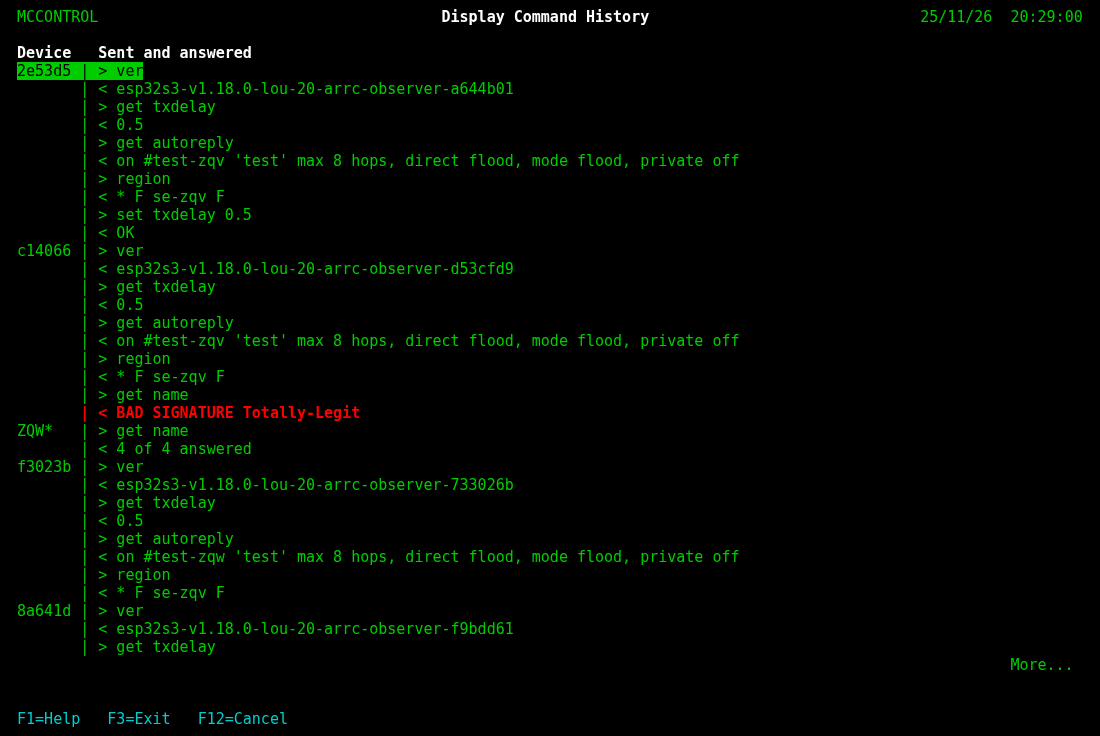
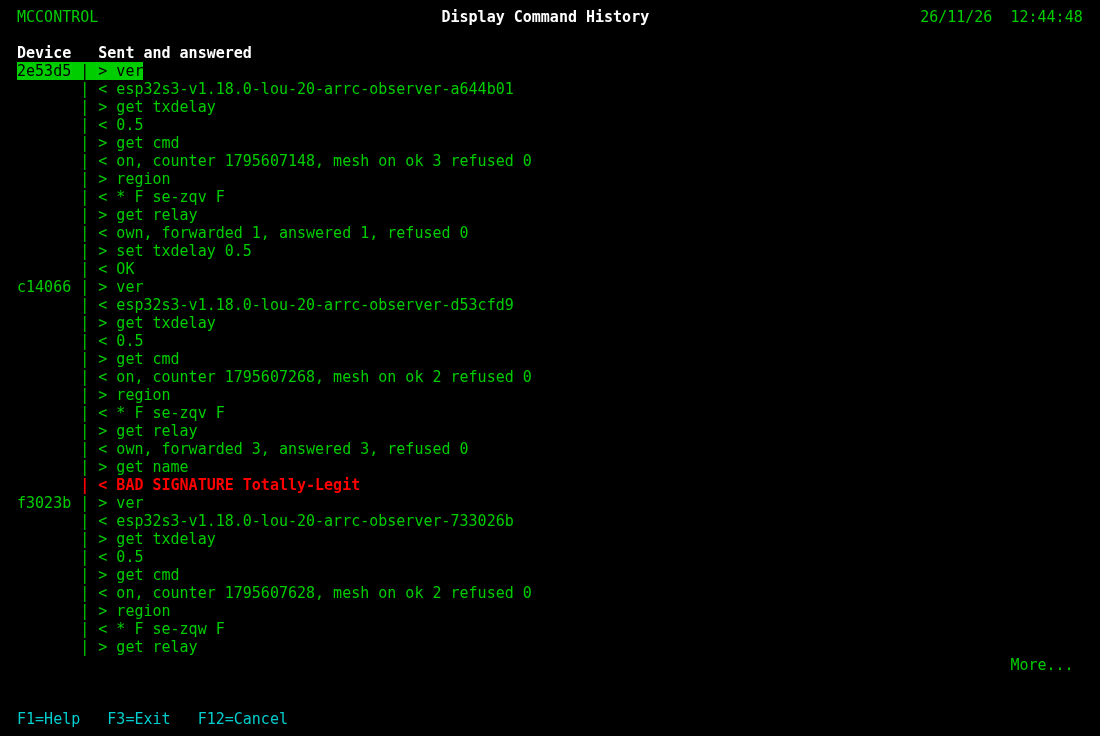
The pictures show a lou-20 fleet: nodes found by their alive message, one without Wi-Fi behind a relay, one on lou-18; a key rotation and a send through a relay

diff --git a/scripts/screenshots.py b/scripts/screenshots.py
@@ -4,10 +4,12 @@
 Builds a scratch home (never ~/.config/mccontrol) with ten invented repeaters -- names, keys,
 regions and firmware made up here, checked against the real fleet's keys in the test data --
 with a history, reads, command sets and a Beacon statistics series, all served through the fake
-transport and the fake Beacon the tests use. Each interface runs in a pseudo-terminal and is
+transport and the fake Beacon the tests use. It is a lou-20 fleet: most nodes found by their alive
+message and kept without a region, one without Wi-Fi reached through a relay, one on lou-18. Each interface runs in a pseudo-terminal and is
 driven through a few states; the screen is kept by a small colour terminal emulator, written
 out as HTML in the interface's own colours, and headless Chromium turns that into
-`docs/screenshots/<interface>-<state>.png`. Rerun it when the screens change.
+`docs/screenshots/<interface>-<state>.png`. Two command lines are run over the same home and
+drawn the same way (`cli-<what>.png`). Rerun it when the screens change.
 
     python scripts/screenshots.py [--only monolith-board] [--out docs/screenshots] [--keep-html]
 """
@@ -40,13 +42,18 @@ from mccontrol import store as _store           # noqa: E402
 
 # -- the invented fleet -----------------------------------------------------------------
 
-REGIONS = ("ZQV", "ZQW")                                     # not codes the real fleet uses
-FLEET = [  # name, region, firmware revision, battery mV, tx delay, autoreply on
-    ("Lighthouse-North", "ZQV", 11, 4180, "0.7", "on"), ("Old-Mill", "ZQV", 11, 3920, "0.5", "on"),
-    ("Water-Tower", "ZQV", 10, 4105, "1.0", "off"), ("Church-Spire", "ZQV", 11, 3870, "0.5", "on"),
-    ("Ridge-East", "ZQV", 10, 4240, "0.8", "on"), ("Harbour", "ZQV", 11, 3995, "0.5", "on"),
-    ("Quarry-Hill", "ZQW", 11, 4060, "0.6", "on"), ("Allotments", "ZQW", 10, 3760, "0.5", "off"),
-    ("Fire-Station", "ZQW", 11, 4150, "0.9", "on"), ("School-Roof", "ZQW", 11, 4010, "0.5", "on"),
+HOMES = ("se-zqv", "se-zqw")                                 # invented region homes, as the nodes' alive names them
+OLD_REGION = "ZQV"                                           # the one IATA left: not a code the real fleet uses
+RELAY, NO_WIFI = "Quarry-Hill", "Allotments"                 # the node without Wi-Fi is reached through the relay
+# A lou-20 fleet: most nodes found by their alive message, with no region (`alive`); one on a
+# board without Wi-Fi, added by its key and reached over the mesh (`mesh`); one still on lou-18
+# and the old per-region scheme (`old`).
+FLEET = [  # name, region home, kind, battery mV, tx delay
+    ("Lighthouse-North", "se-zqv", "alive", 4180, "0.7"), ("Old-Mill", "se-zqv", "alive", 3920, "0.5"),
+    ("Water-Tower", "se-zqv", "old", 4105, "1.0"), ("Church-Spire", "se-zqv", "alive", 3870, "0.5"),
+    ("Ridge-East", "se-zqv", "alive", 4240, "0.8"), ("Harbour", "se-zqv", "alive", 3995, "0.5"),
+    ("Quarry-Hill", "se-zqw", "alive", 4060, "0.6"), ("Allotments", "se-zqw", "mesh", 3760, "0.5"),
+    ("Fire-Station", "se-zqw", "alive", 4150, "0.9"), ("School-Roof", "se-zqw", "alive", 4010, "0.5"),
 ]
 
 
@@ -54,10 +61,12 @@ def key_of(name):
     return hashlib.sha256(f"mccontrol-screenshot {name}".encode()).hexdigest().upper()
 
 
-def firmware(name, rev):
-    # The invented fleet runs the released images: lou-20 on most, lou-18 on the two that lag.
-    lou = 20 if rev >= 11 else 18
-    return f"esp32s3-v1.18.0-lou-{lou}-arrc-observer-{hashlib.sha256(name.encode()).hexdigest()[:7]}"
+def firmware(name, kind):
+    # The released images: the Observer one with auto-reply and the plane, the one for a board
+    # without Wi-Fi (the plane, no Observer bridge), and lou-18 on the node that lags.
+    lou, flavour = {"alive": (20, "arrc-observer"), "mesh": (20, "rc"), "old": (18, "arrc-observer")}[kind]
+    board = "rak4631" if kind == "mesh" else "esp32s3"
+    return f"{board}-v1.18.0-lou-{lou}-{flavour}-{hashlib.sha256(name.encode()).hexdigest()[:7]}"
 
 
 def check_invented():
@@ -75,6 +84,7 @@ def at(days, hour=9, minute=0):
 
 def build_home(where):
     """The scratch home, the fake broker's script and the fake Beacon's table."""
+    from mccontrol import actions
     home = where / "home"
     st = _store.Store(home)
     st.create_key()
@@ -82,49 +92,72 @@ def build_home(where):
     # test, kept as `register` and `test` keep them; nothing reaches it (the fake broker answers)
     st.save_config(broker="mqtt.example.org", port=8883, tls=True, beacon_url="http://beacon.example.org", wait_secs=4,
                    sets={"add-scope": ["region put {arg} *", "region allowf {arg}", "region save", "region"],
-                         "audit": ["ver", "get txdelay", "get autoreply"]})
+                         "audit": ["ver", "get txdelay", "get cmd"]})
     st.remember_registration("mqtt.example.org")
     st.remember_test("mqtt.example.org", 8883, True)
     (home / "history").mkdir(exist_ok=True)
     script, nodes, table = {}, [], {}
-    for i, (name, region, rev, mv, txdelay, ar) in enumerate(FLEET):
+    relay = {"node": key_of(RELAY)[:8], "name": RELAY, "route": "direct", "status": "answered", "sent": "direct", "snr": 5.5}
+    for i, (name, region_home, kind, mv, txdelay) in enumerate(FLEET):
         key = key_of(name)
         node = key[:8]
-        st.add_device(name, key, region)
-        observer = f"00000000-0000-4000-8000-{i:012d}"
-        ver = firmware(name, rev)
+        ver = firmware(name, kind)
+        observer = None if kind == "mesh" else f"00000000-0000-4000-8000-{i:012d}"
+        counter = int(time.time()) - 86400 + 60 * i
+        if kind == "alive":         # as discovery keeps a node whose alive message opened: its key, no region
+            fields = {"boot": 3 + i, "sequence": 40 + i, "uptime": 1209600 + i * 3600, "clock": int(time.time()) - 600,
+                      "last_counter": counter, "interval": 900, "flags": 0x01 | 0x10, "mesh": 2,
+                      "fingerprint": st.public_key()[:8], "version": ver, "region": region_home, "name": name}
+            actions.adopt(st, {"node": key, "key": key, "region": "",
+                               "alive": actions._alive_record(fields, "online", time.time() - 600)}, name)
+        else:                       # added by hand: by its key alone, or with the IATA the old scheme needs
+            st.add_device(name, key, OLD_REGION if kind == "old" else "", key=key)
+        heard = {"mesh": "last_heard_relay"}.get(kind, "last_heard_mqtt")
         st.update_device(node, ver=ver, observer_id=observer, last_sent=at(i % 4, 10 + i), last_result="ok",
-                         last_heard=at(i % 4, 10 + i), fleet={"battery_mv": mv, "seen": at(0, 11), "at": at(0, 11)})
-        verified = True if rev >= 11 else None
-        lines = [(at(5 + i % 3, 9), "ver", f"> {ver}", verified),
-                 (at(3, 10, i), "get txdelay", f"> {txdelay}", verified),
-                 (at(2, 14, i), "get autoreply", f"> {ar} #test-{region.lower()} 'test' max 8 hops, direct flood, mode flood, "
-                                                  f"private off", verified),
-                 (at(1, 16, i), "region", "> * F\n se-zqv F", verified)]
+                         last_heard=at(i % 4, 10 + i), **{heard: at(i % 4, 10 + i)},
+                         **({} if kind == "mesh" else {"fleet": {"battery_mv": mv, "seen": at(0, 11), "at": at(0, 11)}}))
+        topic = f"meshcore/{OLD_REGION}/{key}/cmd" if kind == "old" else f"mcc/cmd/{key}"
+        road = {"road": "relay", "relay": relay, "note": ""} if kind == "mesh" else \
+               {"road": "mqtt", "note": "" if kind == "old" else "mcc3"}
+        lines = [(at(5 + i % 3, 9), "ver", f"> {ver}", True),
+                 (at(3, 10, i), "get txdelay", f"> {txdelay}", True),
+                 (at(1, 16, i), "region", f"> * F\n {region_home} F", True)]
+        if kind == "old":           # the old scheme: auto-reply on the region's own test channel
+            lines.insert(2, (at(2, 14, i), "get autoreply", f"> on #test-{OLD_REGION.lower()} 'test' max 8 hops, direct flood, "
+                                                           f"mode flood, private off", True))
+        else:                       # what lou-20 brought: the plane's own line, and relaying
+            mesh = "mesh only, mesh on" if kind == "mesh" else "mesh on"
+            lines.insert(2, (at(2, 14, i), "get cmd", f"> on, counter {counter}, {mesh} ok {2 + i % 3} refused 0", True))
+        if kind == "alive":
+            lines.append((at(1, 16, 30 + i), "get relay", f"> own, forwarded {i % 4}, answered {i % 4}, refused 0", True))
         if name == "Old-Mill":
             lines.append((at(0, 9, 5), "set txdelay 0.5", "OK", True))
         if name == "Church-Spire":                          # someone else signing in its name
             lines.append((at(0, 8, 30), "get name", "> Totally-Legit", False))
         with (home / "history" / f"{node}.jsonl").open("w") as f:
             for when, command, reply, signed in lines:
-                f.write(json.dumps({"at": when, "command": command, "topic": f"meshcore/{region}/{key}/cmd", "code": 0,
-                                    "code_name": "ok", "reply": reply, "verified": signed, "note": ""}) + "\n")
+                f.write(json.dumps({"at": when, "command": command, "topic": topic, "code": 0, "code_name": "ok",
+                                    "reply": reply, "verified": signed, **road}) + "\n")
         devs = json.loads((home / "devices.json").read_text())
         entry = next(d for d in devs if d["node"] == node)
         entry["reads"] = {c: {"reply": r, "at": w, "seq": n, "verified": s}
                           for n, (w, c, r, s) in enumerate(lines) if s is not False and not c.startswith("set ")}
-        entry["reads"]["neighbors"] = {"reply": "> 3 neighbours", "at": at(1, 8), "seq": 9, "verified": verified}
+        entry["reads"]["neighbors"] = {"reply": "> 3 neighbours", "at": at(1, 8), "seq": 9, "verified": True}
         (home / "devices.json").write_text(json.dumps(devs, indent=2))
         script[node] = [0, "> * F"]
         script[f"{node}|ver"] = [0, f"> {ver}"]
         script[f"{node}|get name"] = [0, f"> {name}"]
         script[f"{node}|get txdelay"] = [0, f"> {txdelay}"]
         script[f"{node}|get rxdelay"] = [0, "> 0.0"]
+        script[f"{node}|get cmd"] = [0, lines[2][2] if kind != "old" else "> on"]
         script[f"{node}|get stats"] = [0, '> {"batt":%d,"up":1209600,"nf":-114}' % mv]
+        if observer is None:        # no Wi-Fi: not an observer, so Beacon has no status for it
+            continue
+        iata = OLD_REGION if kind == "old" else "ZQX"       # the Observer feed's own setting, not the plane's
         nodes.append({"id": f"node-{i}", "publicKey": key.lower(), "nodeType": 2, "nodeTypeName": "repeater", "name": name,
-                      "isObserver": True, "observerId": observer, "iatas": [{"iata": region, "lastHeard": int(time.time() * 1000)}]})
+                      "isObserver": True, "observerId": observer, "iatas": [{"iata": iata, "lastHeard": int(time.time() * 1000)}]})
         table[f"/observers/{observer}"] = {
-            "id": observer, "displayName": name, "observerType": f"meshcore/{ver}", "iata": region, "status": "online",
+            "id": observer, "displayName": name, "observerType": f"meshcore/{ver}", "iata": iata, "status": "online",
             "statusMetadata": {"model": "Heltec V3", "radio": "869.617981,62.5,8,5", "repeat": "on", "status": "online",
                                "firmware_version": ver, "stats": {
                                    "errors": i, "queue_len": 0, "battery_mv": mv, "noise_floor": -114 + i % 3,
@@ -140,9 +173,6 @@ def build_home(where):
              "airtimeRxSecs": 90 + n * 31 % 200, "noiseFloorDb": -116 + n % 4, "uptimeSeconds": 1200000 + n * 10800,
              "queueLength": 0, "receiveErrors": 30 + n * 17 % 90} for n in range(9)]}
     table["/nodes"] = {"items": nodes}
-    with (home / "history" / "all.jsonl").open("w") as f:
-        f.write(json.dumps({"at": at(1, 17), "command": "get name", "topic": "meshcore/ZQW/all/cmd", "code": None,
-                            "code_name": None, "reply": None, "verified": None, "note": "4 of 4 answered"}) + "\n")
     beacon = where / "beacon.json"
     beacon.write_text(json.dumps(table))
     return home, script, beacon
@@ -432,10 +462,52 @@ STATES = [
     ("ibmi-summary", "IBMi", 80, 24, [], 0.6, 0),
     ("ibmi-devices", "IBMi", 120, 40, [(b"1\r", 0.8)], 0.6, 0),
     ("ibmi-facts", "IBMi", 120, 40, [(b"1\r", 0.8), (DOWN, 0.2), (b"8\r", 0.8)], 0.6, 0),
-    ("ibmi-command-entry", "IBMi", 120, 40, [(b"1\r", 0.8), (b"tag ZQW\r", 0.6), (b"cmd\r", 0.6), (b"get txdelay\r", 2.5),
-                                             (b"ver\r", 2.5)], 0.6, 0),
+    ("ibmi-command-entry", "IBMi", 120, 40, [(b"1\r", 0.8)] + [(DOWN, 0.2), (b"1", 0.2)] * 4 + [
+        (ENTER, 0.6), (b"cmd\r", 0.6), (b"get txdelay\r", 2.5), (b"ver\r", 2.5)], 0.3, 0),   # four waits fit the 2.5 s
     ("ibmi-history", "IBMi", 120, 40, [(b"12\r", 1.0)], 0.6, 0),
 ]
+
+
+# -- the command line ---------------------------------------------------------------------
+
+MCCONTROL = ["-c", "import sys; from mccontrol import cli; sys.exit(cli.main(sys.argv[1:]))"]
+
+
+def rotation(home):
+    """A key rotation under way in the scratch home: a next key (invented here, like the first),
+    most nodes on it, one offered and not yet confirmed, the rest still to do."""
+    from mccontrol import rekey
+    st = _store.Store(home)
+    rekey.start(st)
+    for name, state in [("Lighthouse-North", rekey.NEW), ("Old-Mill", rekey.NEW), ("Church-Spire", rekey.NEW),
+                        ("Harbour", rekey.NEW), ("Allotments", rekey.NEW), ("Ridge-East", rekey.OFFERED)]:
+        rekey._set_state(st, key_of(name)[:8], state)
+
+
+# (file name, columns, what to do to the home first, the command lines as typed and as run)
+CLI_STATES = [
+    ("cli-rekey-status", 100, rotation, [("python -m mccontrol.rekey status", ["-m", "mccontrol.rekey", "status"])]),
+    ("cli-relay-send", 100, None, [
+        (f"mccontrol send {NO_WIFI.lower()} ver --via relay:{RELAY.lower()}",
+         MCCONTROL + ["send", NO_WIFI.lower(), "ver", "--via", f"relay:{RELAY.lower()}"]),
+        (f"mccontrol send {NO_WIFI.lower()} get cmd --via relay:{RELAY.lower()} --route flood",
+         MCCONTROL + ["send", NO_WIFI.lower(), "get", "cmd", "--via", f"relay:{RELAY.lower()}", "--route", "flood"])]),
+]
+
+
+def capture_cli(commands, cols, home, script, beacon):
+    """Run each command line over the scratch home and return the screen a terminal `cols`
+    wide would show: a prompt with the line as typed, then what it printed."""
+    env = dict(os.environ, MCCONTROL_HOME=str(home), MCCONTROL_FAKE_RESULTS=json.dumps(script),
+               MCCONTROL_FAKE_BEACON=str(beacon), MCCONTROL_FAKE_WAIT="0", LANG="C.UTF-8", LC_ALL="C.UTF-8")
+    shown = []
+    for typed, argv in commands:
+        done = subprocess.run([sys.executable] + argv, cwd=ROOT, env=env, capture_output=True, text=True, timeout=120)
+        shown.append((typed, done.stdout.rstrip("\n").split("\n")))
+    rows = sum(1 + sum(max(1, -(-len(line) // cols)) for line in out) for _typed, out in shown) + len(shown) - 1
+    screen = Screen(cols, rows)
+    screen.feed("\r\n\r\n".join(f"\x1b[1;32m$\x1b[0;1m {typed}\x1b[0m\r\n" + "\r\n".join(out) for typed, out in shown))
+    return screen
 
 
 def main(argv=None):
@@ -459,6 +531,19 @@ def main(argv=None):
             page.write_text(to_html(screen, f"mccontrol {ui}"), encoding="utf-8")
             to_png(page, out / f"{name}.png", cols, rows)
             print(f"{out / name}.png  {cols}x{rows}")
+        for name, cols, prepare, commands in CLI_STATES:
+            if args.only and name not in args.only:
+                continue
+            where = pathlib.Path(tmp) / name
+            where.mkdir()
+            home, script, beacon = build_home(where)
+            if prepare:
+                prepare(home)
+            screen = capture_cli(commands, cols, home, script, beacon)
+            page = (out if args.keep_html else where) / f"{name}.html"
+            page.write_text(to_html(screen, name), encoding="utf-8")
+            to_png(page, out / f"{name}.png", cols, screen.rows)
+            print(f"{out / name}.png  {cols}x{screen.rows}")
     return 0
 
 

diff --git a/tests/test_screenshots.py b/tests/test_screenshots.py
@@ -34,7 +34,7 @@ def test_the_fleet_is_invented_and_the_board_shows_it(tmp_path):
     devices = json.loads((home / "devices.json").read_text())
     real = {n["publicKey"][:8].upper() for n in json.loads((ROOT / "tests" / "data" / "beacon-fake.json").read_text())["/nodes"]["items"]}
     assert len(devices) == 10 and not {d["node"] for d in devices} & real
-    assert {d["region"] for d in devices} == set(screenshots.REGIONS)
+    assert {d["region"] for d in devices} == {"", screenshots.OLD_REGION}
     screen = screenshots.capture("Monolith", 80, 24, [(screenshots.DOWN, 0.4)], home, script, beacon)
     text = "\n".join(_text(screen))
     assert "Church-Spire" in text and "10 devices" in text and "HISTORY" in text and "STATS CHURCH-SPIRE" in text
@@ -47,3 +47,49 @@ def test_the_fleets_home_reads_like_a_configured_install(tmp_path):
     st = _store.Store(home)
     assert (st.config()["broker"], st.config()["port"], st.config()["tls"]) == ("mqtt.example.org", 8883, True)
     assert st.registration()["broker"] == "mqtt.example.org" and st.tested()["ok"] is True
+
+
+def test_the_fleet_is_a_lou_20_one(tmp_path):
+    """Most nodes found by their alive message and kept without a region, one without Wi-Fi
+    that a relay reaches, one on lou-18 and the old scheme; nothing sent to a whole region."""
+    from mccontrol import actions, firmware, store as _store
+    home, _script, _beacon = screenshots.build_home(tmp_path)
+    st = _store.Store(home)
+    by = {d["name"]: d for d in st.devices()}
+    found = [d for d in by.values() if (d.get("alive") or {}).get("state") == "online"]
+    assert len(found) == 8 and all(not d["region"] and actions.scheme(d) == "mcc3" for d in found)
+    assert {d["alive"]["region"] for d in found} == set(screenshots.HOMES)
+    assert all(firmware.revision(d["ver"]) == 20 and d["notes"] == "found by discovery" for d in found)
+    cabin, relay, old = by[screenshots.NO_WIFI], by[screenshots.RELAY], by["Water-Tower"]
+    assert firmware.device_mesh_only(cabin) and not cabin["region"] and not cabin.get("alive") and not cabin.get("observer_id")
+    assert actions.scheme(cabin) == "mcc3" and actions.relay_refusal(relay) is None
+    assert {h["road"] for h in st.history(cabin["node"])} == {"relay"}
+    assert st.history(cabin["node"])[-1]["relay"]["node"] == relay["node"]
+    assert firmware.revision(old["ver"]) == 18 and actions.scheme(old) == "old" and old["region"] == screenshots.OLD_REGION
+    assert [d["name"] for d in by.values() if actions.scheme(d) == "old"] == ["Water-Tower"]
+    assert not (home / "history" / "all.jsonl").exists()
+    assert all(h["topic"].startswith("mcc/cmd/") for d in found for h in st.history(d["node"]))
+    assert "#test-zqv" in " ".join(h["reply"] for h in st.history(old["node"]))
+
+
+def test_the_command_line_pictures_show_a_key_rotation_and_a_send_through_the_relay(tmp_path):
+    shots = {}
+    for name, cols, prepare, commands in screenshots.CLI_STATES:
+        where = tmp_path / name
+        where.mkdir()
+        home, script, beacon = screenshots.build_home(where)
+        if prepare:
+            prepare(home)
+        shots[name] = _text(screenshots.capture_cli(commands, cols, home, script, beacon))
+    rekey = shots["cli-rekey-status"]
+    assert rekey[0] == "$ python -m mccontrol.rekey status" and len(rekey) == 11
+    states = {line[:20].strip(): line[21:] for line in rekey[1:]}
+    assert states["Old-Mill"] == "on the next key" and states["Ridge-East"] == "offered, not confirmed"
+    assert states["Quarry-Hill"] == "on the key in use" and states["Water-Tower"].startswith("cannot: its firmware has no rekey")
+    relay = shots["cli-relay-send"]
+    assert relay[0] == "$ mccontrol send allotments ver --via relay:quarry-hill"
+    assert relay[1] == "through relay Quarry-Hill (direct, no hops: only a node the relay hears itself): sent direct"
+    assert relay[2].startswith("Allotments   > rak4631-v1.18.0-lou-20-rc-")
+    assert relay[3] == "" and relay[4].endswith("--route flood")
+    assert relay[5] == "through relay Quarry-Hill (flood in the relay's region): sent flood"
+    assert "mesh only" in relay[6] and len(relay) == 7

diff --git a/README.md b/README.md
@@ -342,6 +342,8 @@ those slot settings, so a broken Observer feed can be repaired over the mesh.
 The bytes are in mccontrol-spec's [wire format](https://github.com/sweden-mesh/mccontrol-spec/blob/main/docs/wire-format.md)
 and pinned, with the firmware's own worked vectors, in `spec/vectors/vectors.json` (`mesh`).
 
+![two sends to a node without Wi-Fi through a relay: direct, then a flood](docs/screenshots/cli-relay-send.png)
+
 ### A companion over the network (`tcp:HOST:PORT`)
 
 A companion running the **Wi-Fi companion firmware** (`companion_radio_wifi`) listens on TCP port
@@ -488,7 +490,8 @@ every function key, option and verb pressed once, on an 80x24 and a wider termin
 `tests/test_parity.py` holds MeshcoreCommander and IBMi to Monolith's verbs, and
 `tests/test_pages.py` the pages' links and keys to the code.
 
-`python scripts/screenshots.py` remakes `docs/screenshots/` from an invented fleet (it needs
+`python scripts/screenshots.py` remakes `docs/screenshots/` from an invented lou-20 fleet: most
+nodes found by their alive message, one without Wi-Fi behind a relay, one still on lou-18 (it needs
 headless Chromium; `--only <name>` for one picture, `--keep-html` to keep the pages it renders).
 
 ## The spec
@@ -513,6 +516,8 @@ python -m mccontrol.rekey send --all                         # then every node o
 python -m mccontrol.rekey status
 python -m mccontrol.rekey finish                             # the next key becomes yours; the replaced one is kept
 ```
+
+![python -m mccontrol.rekey status, part way through a rotation](docs/screenshots/cli-rekey-status.png)
 
 Per node it sends `rekey <new public key>` signed with the key in use, then `ver` signed with the
 next key. The node takes the next key only when that second command arrives, so a lost or mistyped
